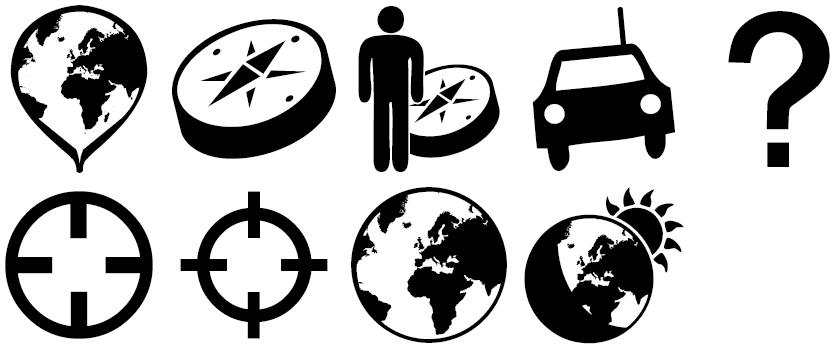
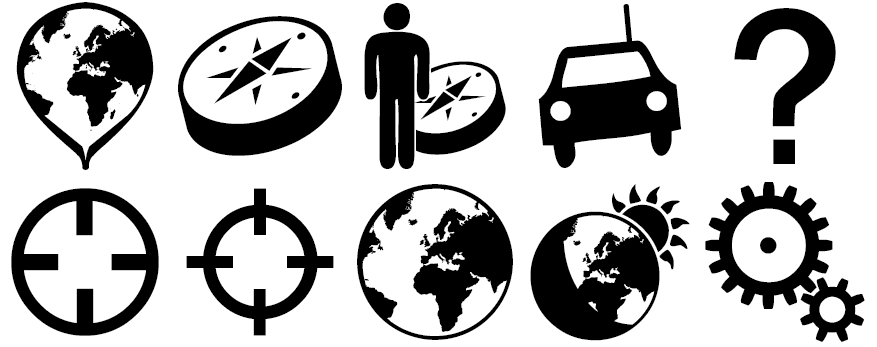
added 1 glyph; cogs

diff --git a/css/habitat-font.css b/css/habitat-font.css
@@ -75,4 +75,5 @@
 .icon-target:before           { content: "\f006"; }
 .icon-earth:before            { content: "\f007"; }
 .icon-daylight:before         { content: "\f008"; }
+.icon-settings:before         { content: "\f010"; }
 

diff --git a/demo.html b/demo.html
@@ -23,5 +23,6 @@
         <i class="icon-target"></i>
         <i class="icon-earth"></i>
         <i class="icon-daylight"></i>
+        <i class="icon-settings"></i>
     </body>
 </html>
